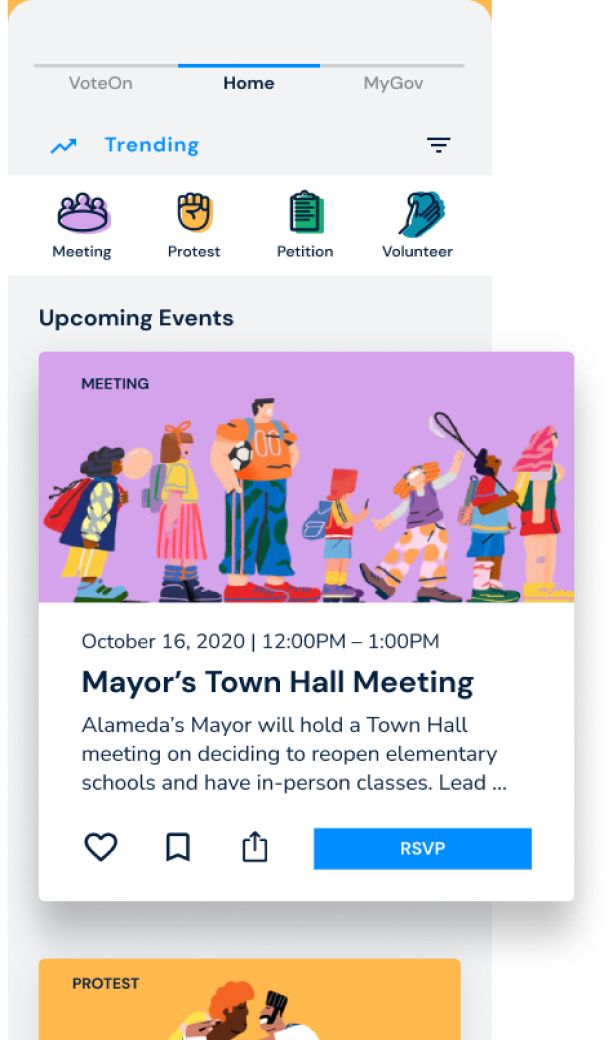
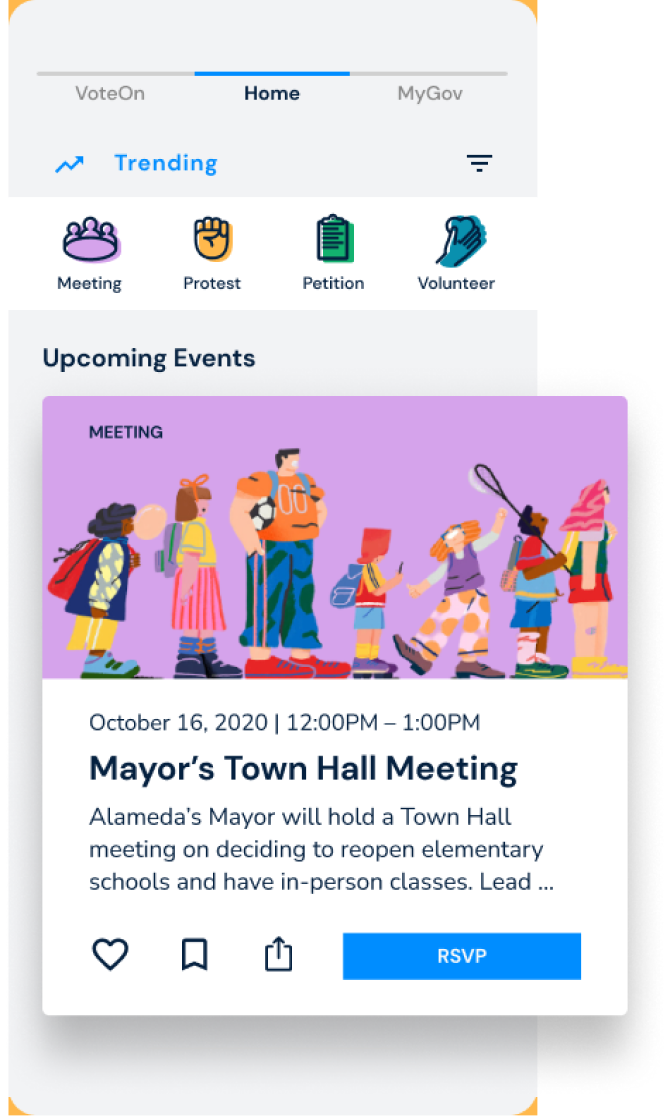
alot

diff --git a/index.html b/index.html
@@ -74,7 +74,7 @@
           </div>
         </div>
         <div class="col-lg-5 order-1 order-lg-2 hero-img" data-aos="zoom-in" data-aos-delay="200">
-          <img src="assets/img/hero-img1.png" class="img-fluid animated" alt="" style="padding-left: 10px;">
+          <img src="assets/img/hero-img1.png" class="img-fluid animated" alt="" style="position: relative; left: 40%;">
         </div>
       </div>
     </div>
@@ -314,7 +314,7 @@
 
           </div>
 
-          <div class="col-lg-5 align-items-stretch order-1 order-lg-2 img" style='background-image: url("assets/img/iphone-outline-greyscale3.png");' data-aos="zoom-in" data-aos-delay="150">&nbsp;</div>
+          <div class="col-lg-5 align-items-stretch order-1 order-lg-2 img" style='background-image: url("assets/img/MyGov.png");' data-aos="zoom-in" data-aos-delay="150">&nbsp;</div>
         </div>
 
       </div>
@@ -346,7 +346,7 @@
 
         <div class="row">
 
-          <div class="col-lg-5 align-items-stretch order-2 order-lg-1 img" style='background-image: url("assets/img/iphone-outline-greyscale3.png");' data-aos="zoom-in" data-aos-delay="150">&nbsp;</div>
+          <div class="col-lg-5 align-items-stretch order-2 order-lg-1 img" style='background-image: url("assets/img/VoteOn.png");' data-aos="zoom-in" data-aos-delay="150">&nbsp;</div>
 
 
           <div class="col-lg-7 d-flex flex-column justify-content-center align-items-stretch  order-1 order-lg-2">
